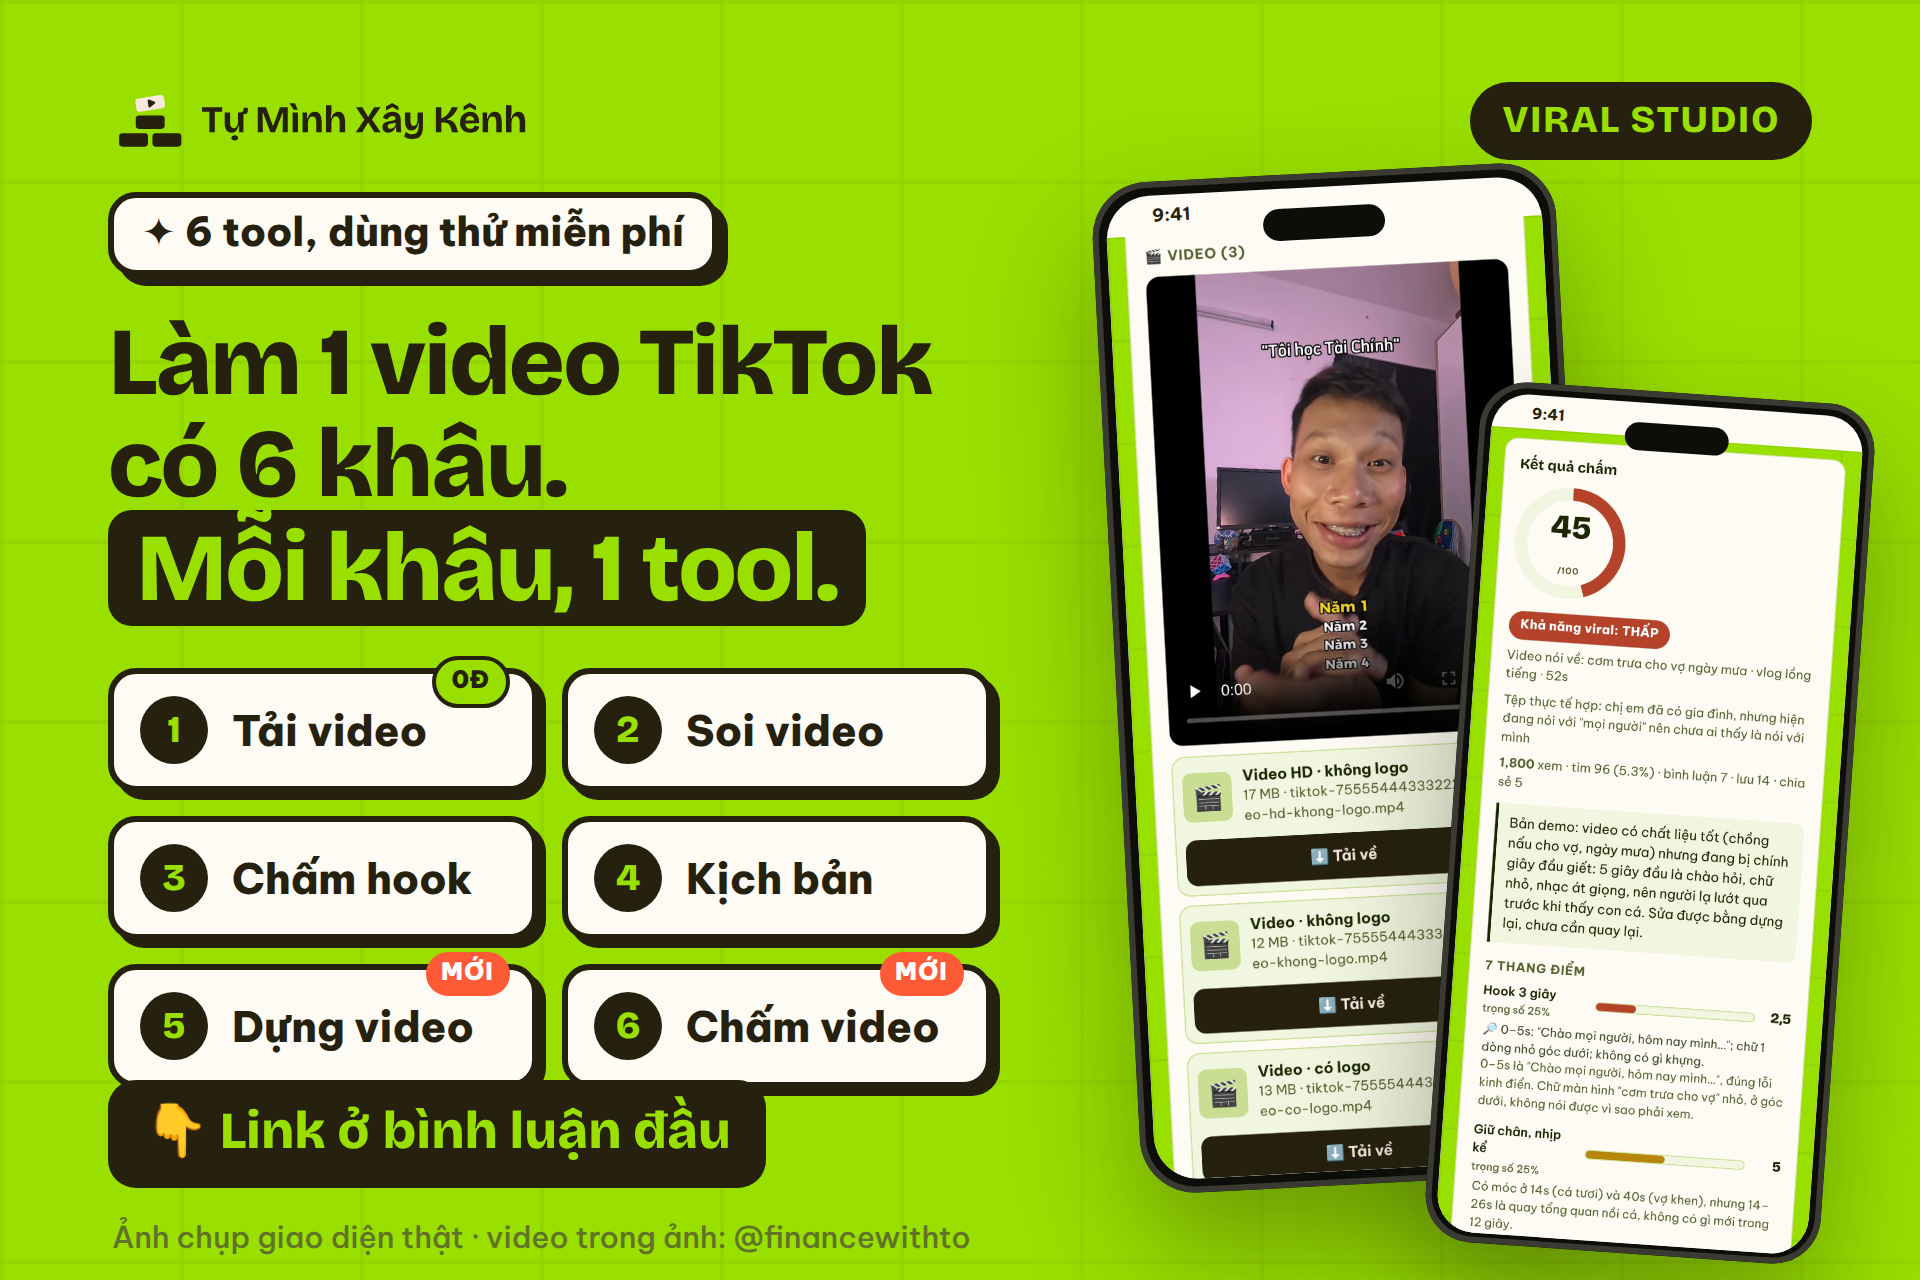
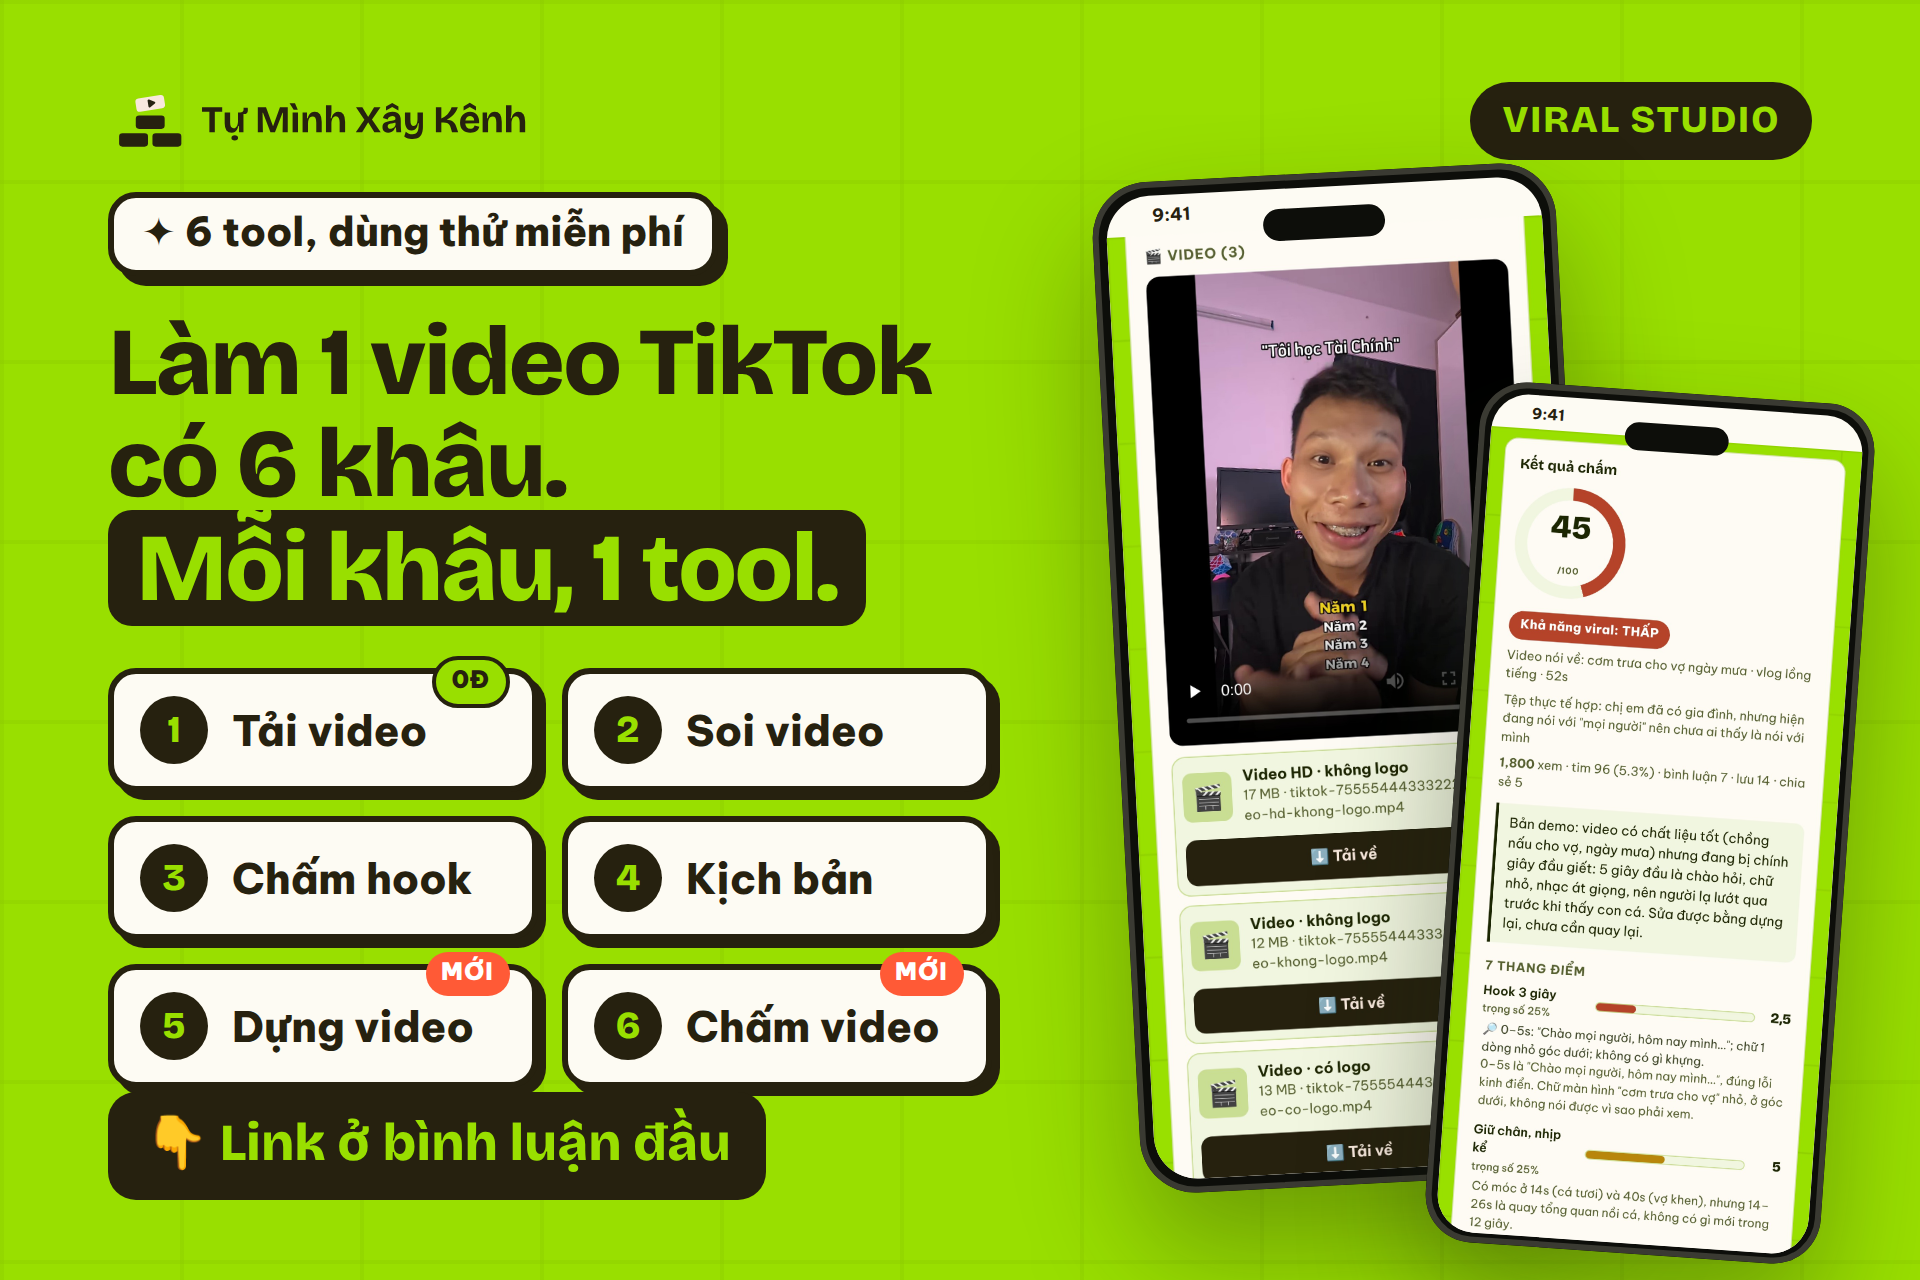
Poster ngang: bỏ dòng ghi chú dưới chân
Claude-Session: https://claude.ai/code/session_01DLoQkHnYKA1ATrTvxbMQPm

Changed region(s): [[0.0625, 0.8438, 0.5, 1.0]]

diff --git a/poster-fb/poster.html b/poster-fb/poster.html
@@ -197,7 +197,7 @@
   .chip6 i{position:absolute;top:-9px;right:11px;font-style:normal;font:900 12px/1 var(--font-ui);
     background:var(--red);color:#fff;padding:5px 8px;border-radius:999px;letter-spacing:.05em}
   .chip6 i.free{background:var(--lime);color:var(--ink)}
-  .nga-chan{position:absolute;left:54px;bottom:46px;display:flex;align-items:center;gap:16px}
+  .nga-chan{position:absolute;left:54px;bottom:40px;display:flex;align-items:center;gap:16px}
   .nga-chan b{font:800 26px/1.15 var(--font-display);background:var(--lime);color:var(--ink);padding:12px 18px;border-radius:14px}
   .nga-chan span{font:700 18px/1.3 var(--font-ui);color:#c3c5ab}
 
@@ -591,7 +591,6 @@
   <div class="dt" style="--w:232px;--sb:#FDFBF3;left:558px;top:86px;transform:rotate(-3deg)"><div class="man"><img src="anh/tv-man-kq.jpg" alt=""></div></div>
   <div class="dt" style="--w:198px;--sb:#FDFBF3;left:726px;top:196px;transform:rotate(4deg)"><div class="man"><img src="anh/cv-2.jpg" alt=""></div></div>
   <div class="nga-chan"><b>👇 Link ở bình luận đầu</b></div>
-  <div class="ghichu" style="left:56px;right:auto;top:auto;bottom:14px">Ảnh chụp giao diện thật · video trong ảnh: @financewithto</div>
 </section>
 
 
@@ -613,7 +612,6 @@
   <div class="dt" style="--w:232px;--sb:#FDFBF3;left:558px;top:86px;transform:rotate(-3deg)"><div class="man"><img src="anh/tv-man-kq.jpg" alt=""></div></div>
   <div class="dt" style="--w:198px;--sb:#FDFBF3;left:726px;top:196px;transform:rotate(4deg)"><div class="man"><img src="anh/cv-2.jpg" alt=""></div></div>
   <div class="nga-chan"><b>👇 Link ở bình luận đầu</b></div>
-  <div class="ghichu" style="left:56px;right:auto;top:auto;bottom:14px">Ảnh chụp giao diện thật · video trong ảnh: @financewithto</div>
 </section>
 
 </body>
